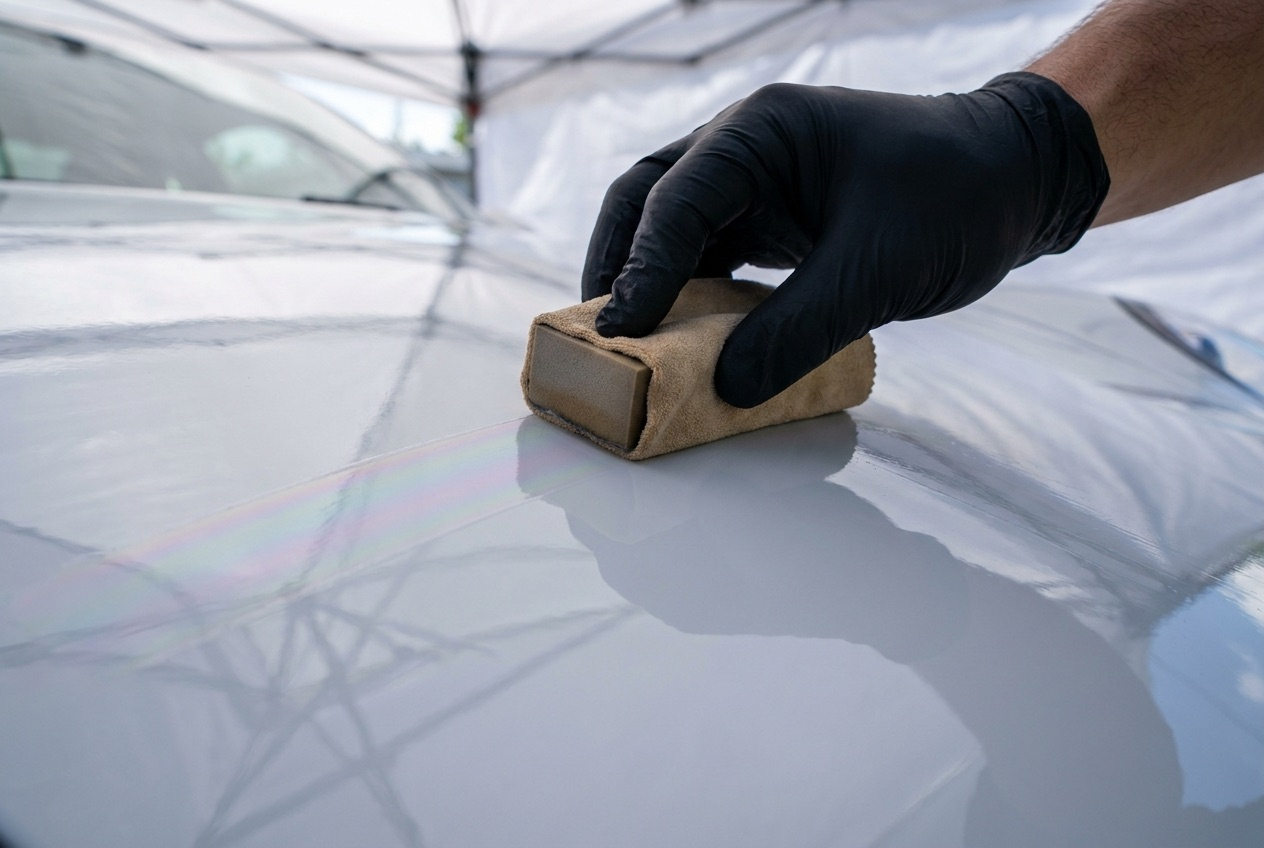
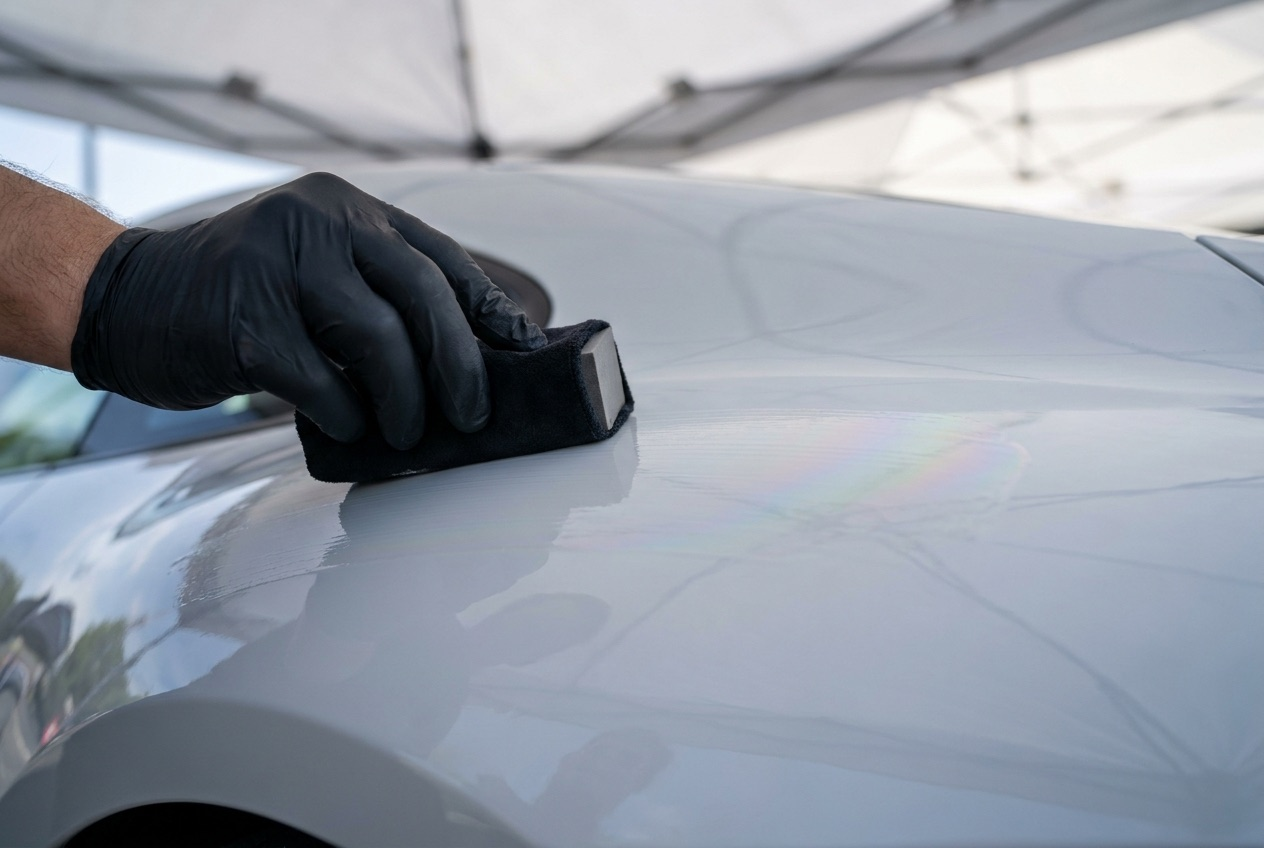
Packages: black ceramic applicator image (regen); tighten Level 3 included copy

diff --git a/home-new.html b/home-new.html
@@ -740,8 +740,8 @@
           <div class="pkg-inc">
             <div class="pkg-inc-head">What's Included</div>
             <ul class="pkg-list">
-              <li>Paint enhancement, or 1 to 2 step paint correction</li>
-              <li>Choice of 2 year, 6 year, or lifetime coating</li>
+              <li>Paint enhancement/correction</li>
+              <li>Your choice of 2, 6 or lifetime coatings</li>
               <li>9H hardness, scratch and swirl resistance</li>
               <li>Hydrophobic, self-cleaning finish</li>
               <li>UV and chemical protection</li>
